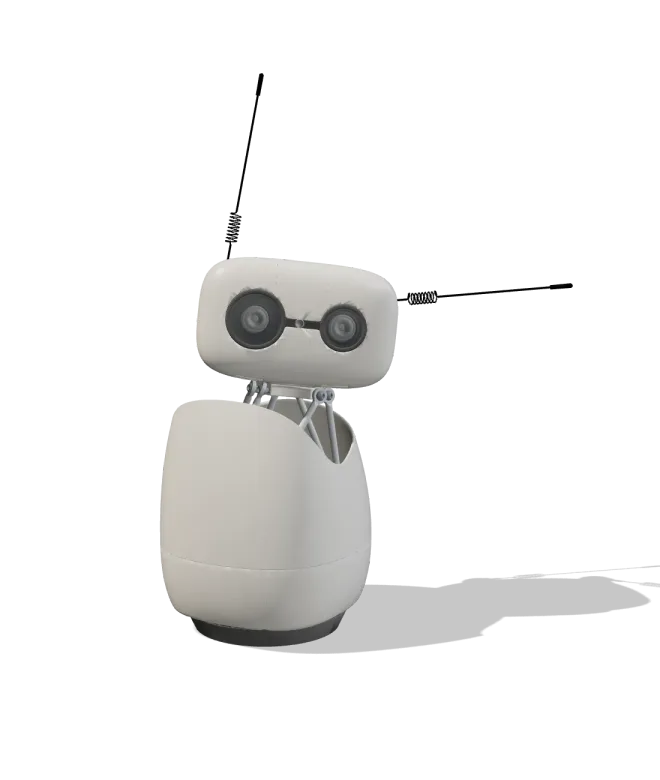
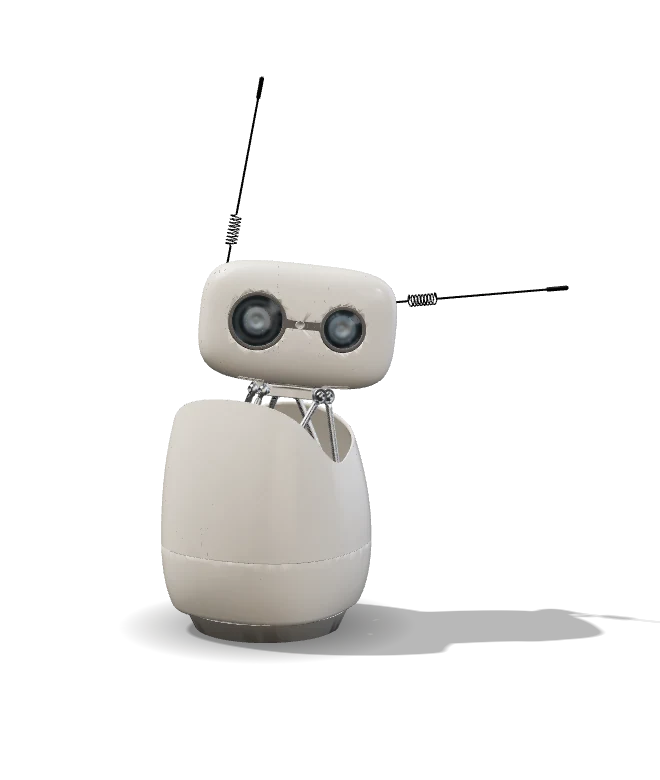
landing hq (it1): look-dev — PBR material per real part family (cream clearcoat shell, matte PLA, glass lenses, black lens rings, steel rods/balls/bearing, coated antenna coil), five-panel room baked to a PMREM (same light offline + live hero), VSM contact shadow + occlusion disc, 18° lens with shar

diff --git a/docs/js/landing/twin.js b/docs/js/landing/twin.js
@@ -37,26 +37,39 @@ export async function loadModel(base, { yieldEach = false } = {}) {
   return { geoms: geomsJ, geometries, bytes: pack.byteLength }
 }
 
-/** Build a scene: one Group per body (by name), meshes attached at their MJCF pos/quat. `style` = 'studio' | 'cockpit'. */
+/** Look-dev: one material per real part family, keyed by the MJCF mesh name + its rgba (Pollen's materials).
+ *  The real robot: glossy cream 3D-printed shell · matte dark-grey printed foot/plates · black lens rings + glass · black
+ *  spring-steel antenna coils · steel Stewart rods and balls · a bearing ring · Dynamixel XL-330 cases · one orange LED cap. */
+export const SHELL = 0xf5f2ec
+function materialFor(g, shell) {
+  const [r, gg, b, a] = g.rgba, m = g.mesh
+  const P = (o) => new THREE.MeshPhysicalMaterial(Object.assign({ color: new THREE.Color(r, gg, b), roughness: .55, metalness: 0 }, o))
+  if (r > 0.9 && gg > 0.9 && b > 0.9) return P({ color: new THREE.Color(shell), roughness: .30, clearcoat: .7, clearcoatRoughness: .18, specularIntensity: .55 }) // printed shell, sprayed gloss
+  if (a < 1) return P({ color: new THREE.Color(0x9fb4c4), roughness: .03, metalness: 0, transmission: .92, ior: 1.5, thickness: .004, transparent: true, opacity: 1 }) // lens glass
+  if (/lens_cap/.test(m)) return P({ color: new THREE.Color(0x0b0c0e), roughness: .18, clearcoat: .9, clearcoatRoughness: .12 }) // black lens rings
+  if (m === 'antenna') return P({ color: new THREE.Color(0x101113), roughness: .38, metalness: .55 }) // coated spring steel coil
+  if (/stewart_link_rod/.test(m)) return P({ color: new THREE.Color(0xd9dde2), roughness: .28, metalness: 1 }) // steel rods
+  if (/stewart_link_ball/.test(m)) return P({ color: new THREE.Color(0xb9bec6), roughness: .22, metalness: 1 }) // ball joints
+  if (/bearing/.test(m)) return P({ color: new THREE.Color(0xc7cfd6), roughness: .34, metalness: .95 }) // 85×110 bearing ring
+  if (/led_cap/.test(m)) return P({ roughness: .45, clearcoat: .4, emissive: new THREE.Color(r, gg, b), emissiveIntensity: .12 }) // Dynamixel LED cap
+  if (/speaker|glasses_dolder/.test(m)) return P({ roughness: .9 }) // rubber / matte
+  if (/3dprint|arducam_carter|stewart_arm/.test(m)) return P({ roughness: .82, metalness: 0 }) // matte dark PLA
+  if (/^dc15_|^phs_|^bts2|^b3b/.test(m)) return P({ roughness: .5, metalness: .05, clearcoat: .15 }) // motor cases, screws
+  if (/antenna_interface/.test(m)) return P({ roughness: .3, metalness: .9 })
+  return P({ roughness: .55, metalness: .05 })
+}
+
+/** Build a scene: one Group per body (by name), meshes attached at their MJCF pos/quat. */
 export function buildRobot(model, opts = {}) {
   const root = new THREE.Group()
   const bodies = new Map()
-  const white = opts.shell ?? 0xf4f2ec
+  const shell = opts.shell ?? SHELL
   for (const g of model.geoms.geoms) {
     let grp = bodies.get(g.body)
     if (!grp) { grp = new THREE.Group(); grp.name = g.body; bodies.set(g.body, grp); root.add(grp) }
     const geo = model.geometries.get(g.mesh); if (!geo) continue
-    const [r, gg, b, a] = g.rgba
-    const isWhite = r > 0.9 && gg > 0.9 && b > 0.9
-    const isLens = a < 1
-    const mat = new THREE.MeshPhysicalMaterial({
-      color: isWhite ? new THREE.Color(white) : new THREE.Color(r, gg, b),
-      roughness: isWhite ? 0.38 : isLens ? 0.05 : 0.55, metalness: isWhite ? 0 : isLens ? 0.1 : 0.25,
-      clearcoat: isWhite ? 0.35 : 0, clearcoatRoughness: 0.35,
-      transparent: isLens, opacity: isLens ? 0.55 : 1, transmission: isLens ? 0.4 : 0,
-    })
-    const mesh = new THREE.Mesh(geo, mat)
-    mesh.castShadow = true; mesh.receiveShadow = true
+    const mesh = new THREE.Mesh(geo, materialFor(g, shell))
+    mesh.castShadow = g.rgba[3] >= 1; mesh.receiveShadow = true
     mesh.position.set(g.pos[0], g.pos[1], g.pos[2])
     mesh.quaternion.set(g.quat[1], g.quat[2], g.quat[3], g.quat[0]) // MuJoCo wxyz → three xyzw
     grp.add(mesh)
@@ -74,27 +87,60 @@ export function applyFrame(robot, poses, i) {
   })
 }
 
-/** Studio: neutral key/fill/rim, soft ground shadow, transparent background. Camera looks at the head from the front-right. */
-export function makeStage(canvas, { width, height, alpha = true, dpr = 1, shadows = true } = {}) {
+/** The camera views every asset shares (still, frame sequences, body layers, live hero) — one lens for the whole page.
+ *  fov 18° = a ~135 mm-equivalent portrait lens: less perspective on the head, the antennas stay parallel. */
+export const FOV = 18
+export const VIEWS = {
+  hero:    { yaw: 0.62, pitch: 0.16, dist: 1.85, target: [0, 0.06, 0.19] },
+  emotion: { yaw: 0.30, pitch: 0.14, dist: 2.0, target: [0, 0.02, 0.205] },
+  body:    { yaw: 0.55, pitch: 0.14, dist: 2.0, target: [0, 0.0, 0.205] },
+}
+
+/** A small photographic room baked to a PMREM: one big softbox overhead-front, a cool fill panel left, a warm bounce right,
+ *  a dim floor. Built from geometry (no HDR download) so the offline renderer and the live page light the shell identically. */
+export function makeEnvironment(renderer) {
+  const room = new THREE.Scene()
+  room.background = new THREE.Color(0x1c1d20)
+  const panel = (w, h, color, intensity, pos, look) => {
+    const m = new THREE.Mesh(new THREE.PlaneGeometry(w, h), new THREE.MeshBasicMaterial({ color: new THREE.Color(color).multiplyScalar(intensity), side: THREE.DoubleSide }))
+    m.position.set(...pos); m.lookAt(...look); room.add(m)
+  }
+  panel(3.2, 2.2, 0xfff6ea, 6.0, [0.6, -1.4, 2.6], [0, 0, 0.2])   // key softbox, high front-right
+  panel(2.6, 3.0, 0xdbe6ff, 2.2, [-3.0, 0.8, 1.0], [0, 0, 0.2])   // cool fill, left
+  panel(2.0, 2.4, 0xffe9d2, 1.4, [2.4, 2.6, 0.6], [0, 0, 0.2])    // warm bounce, back-right
+  panel(3.0, 1.2, 0xffffff, 1.8, [0, 3.2, 1.6], [0, 0, 0.2])      // rim strip behind
+  panel(6, 6, 0x6b6a66, 0.5, [0, 0, -0.3], [0, 0, 1])              // floor bounce
+  const pmrem = new THREE.PMREMGenerator(renderer)
+  const env = pmrem.fromScene(room, 0.035).texture
+  pmrem.dispose()
+  return env
+}
+
+/** Studio: image-based light from makeEnvironment + one soft key for the contact shadow, transparent background. */
+export function makeStage(canvas, { width, height, alpha = true, dpr = 1, shadows = true, view = 'hero' } = {}) {
   const renderer = new THREE.WebGLRenderer({ canvas, antialias: true, alpha, powerPreference: 'high-performance', preserveDrawingBuffer: true })
   renderer.setPixelRatio(dpr); renderer.setSize(width, height, false)
-  renderer.shadowMap.enabled = shadows; renderer.shadowMap.type = THREE.PCFSoftShadowMap
-  renderer.toneMapping = THREE.ACESFilmicToneMapping; renderer.toneMappingExposure = 1.05
+  renderer.shadowMap.enabled = shadows; renderer.shadowMap.type = THREE.VSMShadowMap
+  renderer.toneMapping = THREE.ACESFilmicToneMapping; renderer.toneMappingExposure = 1.12
   renderer.outputColorSpace = THREE.SRGBColorSpace
   renderer.setClearColor(0x000000, 0)
   const scene = new THREE.Scene()
-  const cam = new THREE.PerspectiveCamera(28, width / height, 0.02, 10); cam.up.set(0, 0, 1)
-  scene.add(new THREE.HemisphereLight(0xffffff, 0x8a8478, 0.9))
-  const key = new THREE.DirectionalLight(0xfff4e6, 2.2); key.position.set(0.7, -0.6, 1.1); key.castShadow = shadows
-  key.shadow.mapSize.set(2048, 2048); key.shadow.camera.near = 0.05; key.shadow.camera.far = 4; key.shadow.bias = -0.0005; key.shadow.radius = 4
-  for (const k of ['left', 'right', 'top', 'bottom']) key.shadow.camera[k] = k === 'left' || k === 'bottom' ? -0.35 : 0.35
+  scene.environment = makeEnvironment(renderer); scene.environmentIntensity = 1.0
+  const cam = new THREE.PerspectiveCamera(FOV, width / height, 0.05, 12); cam.up.set(0, 0, 1)
+  // the key: matches the softbox direction, exists mainly for the contact shadow (VSM, wide blur = soft penumbra)
+  const key = new THREE.DirectionalLight(0xfff4e6, 1.1); key.position.set(0.45, -0.9, 1.6); key.castShadow = shadows
+  key.shadow.mapSize.set(2048, 2048); key.shadow.camera.near = 0.2; key.shadow.camera.far = 4; key.shadow.bias = -0.0002; key.shadow.normalBias = 0.002
+  key.shadow.radius = 9; key.shadow.blurSamples = 24
+  for (const k of ['left', 'right', 'top', 'bottom']) key.shadow.camera[k] = k === 'left' || k === 'bottom' ? -0.4 : 0.4
   scene.add(key)
-  const fill = new THREE.DirectionalLight(0xdde9ff, 0.7); fill.position.set(-0.8, 0.5, 0.5); scene.add(fill)
-  const rim = new THREE.DirectionalLight(0xffffff, 0.6); rim.position.set(-0.2, 0.9, 0.9); scene.add(rim)
-  // ground: shadow-only disc (the robot's real footprint ≈ Ø 0.16 m; the disc is just where the shadow lands)
-  const ground = new THREE.Mesh(new THREE.CircleGeometry(0.5, 72), new THREE.ShadowMaterial({ opacity: 0.22 }))
-  ground.receiveShadow = true; ground.position.z = -0.0004; scene.add(ground)
-  const orbit = { yaw: 0.62, pitch: 0.28, dist: 0.58, target: new THREE.Vector3(0, 0, 0.145) }
+  const rim = new THREE.DirectionalLight(0xffffff, 0.35); rim.position.set(-0.3, 1.0, 0.8); scene.add(rim)
+  // ground: shadow-only disc + a soft contact-occlusion gradient under the foot (Ø 0.16 m real footprint)
+  const ground = new THREE.Mesh(new THREE.CircleGeometry(0.7, 72), new THREE.ShadowMaterial({ opacity: 0.28 }))
+  ground.receiveShadow = true; ground.position.z = -0.0006; scene.add(ground)
+  const ao = new THREE.Mesh(new THREE.CircleGeometry(0.115, 64), new THREE.MeshBasicMaterial({ map: contactTexture(), transparent: true, depthWrite: false, opacity: 0.55 }))
+  ao.position.z = -0.0003; scene.add(ao)
+  const v = VIEWS[view] || VIEWS.hero
+  const orbit = { yaw: v.yaw, pitch: v.pitch, dist: v.dist, target: new THREE.Vector3(...v.target) }
   const look = () => {
     const { yaw, pitch, dist, target } = orbit
     cam.position.set(target.x + dist * Math.cos(pitch) * Math.cos(yaw), target.y + dist * Math.cos(pitch) * Math.sin(yaw), target.z + dist * Math.sin(pitch))
@@ -103,4 +149,12 @@ export function makeStage(canvas, { width, height, alpha = true, dpr = 1, shadow
   look()
   const resize = (w, h) => { renderer.setSize(w, h, false); cam.aspect = w / h; cam.updateProjectionMatrix() }
   return { renderer, scene, cam, orbit, look, resize, render: () => renderer.render(scene, cam) }
+}
+
+function contactTexture() {
+  const c = document.createElement('canvas'); c.width = c.height = 256
+  const x = c.getContext('2d'), g = x.createRadialGradient(128, 128, 0, 128, 128, 128)
+  g.addColorStop(0, 'rgba(20,18,16,1)'); g.addColorStop(0.45, 'rgba(20,18,16,.55)'); g.addColorStop(1, 'rgba(20,18,16,0)')
+  x.fillStyle = g; x.fillRect(0, 0, 256, 256)
+  const t = new THREE.CanvasTexture(c); t.colorSpace = THREE.SRGBColorSpace; return t
 }

diff --git a/docs/js/landing/landing.js b/docs/js/landing/landing.js
@@ -2,7 +2,7 @@
 // lazily-live hero: on a desktop with WebGL, after the page is idle, the still (hero-curious1-f24.webp) is replaced by the
 // SAME frame drawn by three.js from the cockpit twin's meshes (dashboard/frontend/public/model/, 1.1 MB, served at /model/ by
 // docs/hooks/gen.py on_files) so the visitor can drag TINY around. Camera parameters are the
-// ones render_twin.mjs used for the still (dist 1.15, pitch .18, yaw .62, target z .19 y .06) — no jump on hand-over.
+// ones render_twin.mjs used for the still (twin.js VIEWS.hero: one lens for every asset on the page) — no jump on hand-over.
 // Vanilla, no deps; three.js arrives only through the dynamic import in twin.js. Reduced motion: still only, no orbit.
 (() => {
   const doc = document.documentElement;
@@ -94,7 +94,7 @@
       const W = 1100, H = 1300, dpr = Math.min(devicePixelRatio || 1, 2);
       canvas.width = W * dpr / 2; canvas.height = H * dpr / 2;
       const stage = T.makeStage(canvas, { width: canvas.width, height: canvas.height, dpr: 1, shadows: true });
-      Object.assign(stage.orbit, { yaw: 0.62, pitch: 0.18, dist: 1.15 }); stage.orbit.target.set(0, 0.06, 0.19); stage.look();
+      const HOME = T.VIEWS.hero; Object.assign(stage.orbit, { yaw: HOME.yaw, pitch: HOME.pitch, dist: HOME.dist }); stage.orbit.target.set(...HOME.target); stage.look();
       const robot = T.buildRobot(model); stage.scene.add(robot.root);
       T.applyFrame(robot, poses, 24); stage.render();
       const hint = document.querySelector(".l-caption__hint"); if (hint) hint.hidden = false;
@@ -106,7 +106,7 @@
       wrap.addEventListener("pointermove", (e) => { if (!dragging) return; stage.orbit.yaw -= (e.clientX - lx) * 0.008; stage.orbit.pitch = Math.max(-0.1, Math.min(1.1, stage.orbit.pitch + (e.clientY - ly) * 0.006)); lx = e.clientX; ly = e.clientY; dirty = true; idle = 0; requestAnimationFrame(paint); });
       const up = () => { dragging = false; wrap.classList.remove("is-dragging"); };
       wrap.addEventListener("pointerup", up); wrap.addEventListener("pointercancel", up);
-      const drift = () => { if (!dragging && document.visibilityState === "visible") { const dy = 0.62 - stage.orbit.yaw, dp = 0.18 - stage.orbit.pitch; if (Math.abs(dy) > 0.002 || Math.abs(dp) > 0.002) { stage.orbit.yaw += dy * 0.03; stage.orbit.pitch += dp * 0.03; dirty = true; paint(); } } setTimeout(() => requestAnimationFrame(drift), 33); };
+      const drift = () => { if (!dragging && document.visibilityState === "visible") { const dy = HOME.yaw - stage.orbit.yaw, dp = HOME.pitch - stage.orbit.pitch; if (Math.abs(dy) > 0.002 || Math.abs(dp) > 0.002) { stage.orbit.yaw += dy * 0.03; stage.orbit.pitch += dp * 0.03; dirty = true; paint(); } } setTimeout(() => requestAnimationFrame(drift), 33); };
       setTimeout(drift, 1200);
       addEventListener("resize", () => { dirty = true; requestAnimationFrame(paint); });
     } catch (e) { console.warn("landing: live hero unavailable —", e); }

diff --git a/tools/landing/twin.html b/tools/landing/twin.html
@@ -1,6 +1,6 @@
 <!doctype html>
 <!-- twin.html — offline render host for tools/landing/render_twin.mjs (Playwright). Not shipped.
-     Query: ?move=curious1&frame=40&w=1600&h=1200&yaw=0.62&pitch=0.28&dist=0.58[&only=xl_330,null&noshadow=1]  — draws ONE frame of the real move on a
+     Query: ?move=curious1&frame=40&w=1600&h=1200&view=hero|emotion|body[&yaw=&pitch=&dist=&only=xl_330,null&noshadow=1]  (VIEWS in twin.js)  — draws ONE frame of the real move on a
      transparent canvas; the script screenshots it. window.__ready resolves when drawn; window.__draw(frame) repaints. -->
 <html><head><meta charset="utf-8"><title>twin render</title>
 <style>html,body{margin:0;background:transparent}canvas{display:block}</style></head>
@@ -10,7 +10,7 @@
   const q = new URLSearchParams(location.search)
   const W = +q.get('w') || 1600, H = +q.get('h') || 1200
   const canvas = document.getElementById('c'); canvas.width = W; canvas.height = H
-  const stage = makeStage(canvas, { width: W, height: H, dpr: 1, shadows: !q.get('noshadow') })
+  const stage = makeStage(canvas, { width: W, height: H, dpr: 1, shadows: !q.get('noshadow'), view: q.get('view') || 'hero' })
   for (const k of ['yaw', 'pitch', 'dist']) if (q.get(k) != null) stage.orbit[k] = +q.get(k)
   if (q.get('tz') != null) stage.orbit.target.z = +q.get('tz'); if (q.get('ty') != null) stage.orbit.target.y = +q.get('ty'); if (q.get('tx') != null) stage.orbit.target.x = +q.get('tx')
   if (q.get('fov')) { stage.cam.fov = +q.get('fov'); stage.cam.updateProjectionMatrix() }
